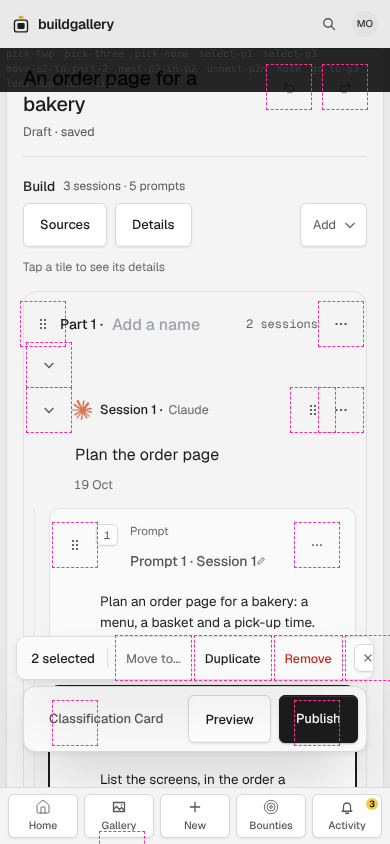
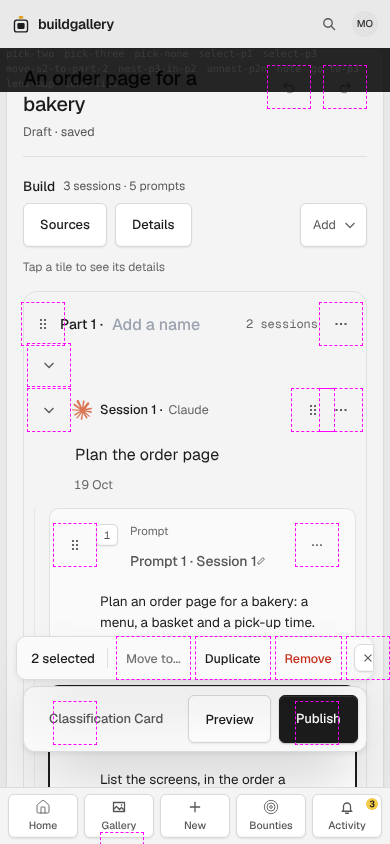
CA-26 P6: screens and checks
Claude-Session: https://claude.ai/code/session_01PDiiGmU5aszVzxvEZchmxX

diff --git a/src/pages/site/compose/buildFocus.tsx b/src/pages/site/compose/buildFocus.tsx
@@ -7,7 +7,7 @@
 import { useEffect, useRef, useState, type CSSProperties, type FocusEvent } from "react";
 
 import { HEADER_HEIGHT } from "@/components/shell/chromeSize";
-import { ROVING_ITEM, itemKey, itemsOf, shown } from "@/lib/focus/buildItems";
+import { ROVING_ITEM, itemAt, itemKey, itemsOf, shown } from "@/lib/focus/buildItems";
 import { ring } from "@/lib/theme/controls";
 import { t } from "@/lib/theme/tokens";
 import { text } from "./refinedStyles";
@@ -38,6 +38,7 @@ export function useRovingList(rootRef: { current: HTMLElement | null }, onSelect
   const last = useRef<{ key: string; index: number } | null>(null);
   const select = useRef(onSelect);
   select.current = onSelect;
+  const lastEl = useRef<HTMLElement | null>(null);
   const bound = useRef<HTMLElement | null>(null);
   const cleanup = useRef<(() => void) | null>(null);
 
@@ -49,6 +50,12 @@ export function useRovingList(rootRef: { current: HTMLElement | null }, onSelect
     if (!root) return;
 
     const apply = () => {
+      // The item that had focus was taken out of the page (Delete, a removal in a menu): focus goes to the item now in its place.
+      if (lastEl.current && !lastEl.current.isConnected && (!document.activeElement || document.activeElement === document.body)) {
+        const stand = itemAt(last.current);
+        lastEl.current = null;
+        stand?.focus();
+      }
       const items = itemsOf(root);
       const at = last.current ? items.findIndex((item) => itemKey(item) === last.current?.key) : -1;
       const current = items[at >= 0 ? at : Math.min(last.current?.index ?? 0, Math.max(items.length - 1, 0))];
@@ -67,6 +74,7 @@ export function useRovingList(rootRef: { current: HTMLElement | null }, onSelect
       if (!item) return;
       const items = itemsOf(root);
       last.current = { key: itemKey(item), index: Math.max(items.indexOf(item), 0) };
+      lastEl.current = item;
       apply();
       item.scrollIntoView?.({ block: "nearest" });
     };
@@ -96,6 +104,8 @@ export function useRovingList(rootRef: { current: HTMLElement | null }, onSelect
           first.focus();
         } else return;
         event.preventDefault();
+        // Not the item's own (a menu button opens on ArrowDown) and not the page's (the shortcuts move the selection by it).
+        event.stopPropagation();
         return;
       }
       if (takesKeys(target) || (event.key !== "ArrowRight" && event.key !== "ArrowLeft")) return;

diff --git a/src/lib/build/__snapshots__/one-prompt.list.html b/src/lib/build/__snapshots__/one-prompt.list.html
@@ -12,7 +12,7 @@
 <span data-testid="prompt-place" style="flex-shrink:0;white-space:nowrap">Prompt 1</span>
 </span>
 </h3>
-<button type="button" aria-label="Rename prompt 1" style="width:20px;height:20px;padding:0;flex-shrink:0;box-sizing:border-box;background:transparent;border:1px solid transparent;border-radius:6px;color:var(--label);display:inline-flex;align-items:center;justify-content:center;cursor:pointer">
+<button type="button" aria-label="Rename prompt 1" data-hit="" style="width:20px;height:20px;padding:0;flex-shrink:0;box-sizing:border-box;background:transparent;border:1px solid transparent;border-radius:6px;color:var(--label);display:inline-flex;align-items:center;justify-content:center;cursor:pointer">
 <svg width="12" height="12" viewBox="0 0 16 16" fill="none" stroke="currentColor" stroke-width="1.3" stroke-linecap="square" aria-hidden="true">
 <path d="M10.5 3.5l2 2L6 12H4v-2z">
 </path>
@@ -20,7 +20,7 @@
 </button>
 </div>
 </div>
-<button type="button" aria-label="Prompt 1 options" id="radix-(id)" aria-haspopup="menu" aria-expanded="false" data-state="closed" style="box-sizing:border-box;flex-shrink:0;width:26px;height:26px;padding:0;border-radius:6px;display:inline-flex;align-items:center;justify-content:center;cursor:pointer;background:transparent;border:1px solid transparent;color:var(--label)">
+<button type="button" aria-label="Prompt 1 options" data-hit="" id="radix-(id)" aria-haspopup="menu" aria-expanded="false" data-state="closed" style="box-sizing:border-box;flex-shrink:0;width:26px;height:26px;padding:0;border-radius:6px;display:inline-flex;align-items:center;justify-content:center;cursor:pointer;background:transparent;border:1px solid transparent;color:var(--label)">
 <svg width="14" height="14" viewBox="0 0 16 16" fill="none" stroke="currentColor" stroke-width="2" stroke-linecap="square" aria-hidden="true">
 <path d="M3.5 8h.01M8 8h.01M12.5 8h.01">
 </path>

diff --git a/src/pages/site/compose/ca26.p1.test.tsx b/src/pages/site/compose/ca26.p1.test.tsx
@@ -1,6 +1,6 @@
 // CA-26 P1: the skip link, the tab order, and the build list as one Tab stop.
 
-import { act, cleanup, fireEvent, render, screen } from "@testing-library/react";
+import { act, cleanup, fireEvent, render, screen, waitFor } from "@testing-library/react";
 import { MemoryRouter } from "react-router-dom";
 import { afterEach, beforeEach, describe, expect, it, vi } from "vitest";
 
@@ -89,6 +89,24 @@ describe("the build list is one Tab stop", () => {
     mountList({ parts: partsOf() });
     act(() => items()[2].focus());
     expect(scroll).toHaveBeenCalled();
+  });
+});
+
+describe("focus that is lost", () => {
+  it("an item taken out of the page while it had focus hands focus to the item now in its place", async () => {
+    mountList({ parts: partsOf() });
+    const all = items();
+    const gone = all[2];
+    act(() => gone.focus());
+    gone.remove();
+    await waitFor(() => expect(document.activeElement).toBe(items()[2]));
+    expect(document.activeElement).not.toBe(document.body);
+  });
+
+  it("the add rows are items of the list: one Tab stop in all", () => {
+    mountList({ parts: partsOf() });
+    expect(document.querySelectorAll('[data-testid="build-list"] [data-testid="add-part-row"], [data-testid="build-list"] [data-testid="add-session-row"]').length).toBeGreaterThanOrEqual(0);
+    expect(stops()).toHaveLength(1);
   });
 });
 

diff --git a/src/lib/focus/buildItems.ts b/src/lib/focus/buildItems.ts
@@ -4,7 +4,7 @@
 // another once the list redraws, and where focus lands when the element that had it is gone.
 
 /** Everything in the build list that holds a place in the arrow order. */
-export const ROVING_ITEM = '[data-testid="step-card"], [data-testid="sent-with-tile"], [data-testid="result-card"], [data-testid="session-head"], [data-testid="workstream-head"]';
+export const ROVING_ITEM = '[data-testid="step-card"], [data-testid="sent-with-tile"], [data-testid="result-card"], [data-testid="session-head"], [data-testid="workstream-head"], [data-testid="add-to-session"], [data-testid="add-part-row"], [data-testid="add-session-row"]';
 
 /** An item's name that survives a redraw: its node, its session, or its part. */
 export const itemKey = (item: HTMLElement): string => {
@@ -13,6 +13,9 @@ export const itemKey = (item: HTMLElement): string => {
   const session = item.closest<HTMLElement>("[data-session-key]")?.dataset.sessionKey;
   if (item.dataset.testid === "session-head" && session) return `s:${session}`;
   if (item.dataset.workstreamKey) return `w:${item.dataset.workstreamKey}`;
+  // An add row: named by the row and by the session or part it stands in.
+  const scope = item.closest<HTMLElement>("[data-session-key]")?.dataset.sessionKey ?? "";
+  if (item.dataset.testid?.startsWith("add-")) return `a:${item.dataset.testid}:${scope}`;
   return "";
 };
 

diff --git a/e2e/audit/support/harness.ts b/e2e/audit/support/harness.ts
@@ -837,12 +837,16 @@ export const ROUTES: AuditRoute[] = [
       await page.waitForTimeout(700);
     };
     return [
-      { id: `ca22-list-${room}`, path: sandbox("ca22", "&bar=hide&history=1&select=c22-p2") },
+      { id: `ca22-list-${room}`, path: sandbox("ca22", "&bar=0&history=1&select=c22-p2") },
       {
         id: `ca22-selection-${room}`,
         path: sandbox("ca22", "&bar=hide&history=1"),
         after: async (page: Page) => {
-          await page.evaluate(() => (document.querySelector('[data-testid="act-pick-two"]') as HTMLElement).click());
+          // The dev page's own bar of buttons presses the pick, then comes off the page: it is not the page.
+          await page.evaluate(() => {
+            (document.querySelector('[data-testid="act-pick-two"]') as HTMLElement).click();
+            document.querySelector('[data-testid="motion-bar"]')?.remove();
+          });
           await page.waitForTimeout(700);
         },
       },

diff --git a/src/pages/site/compose/removePieces.tsx b/src/pages/site/compose/removePieces.tsx
@@ -32,6 +32,7 @@ import { MenuContent } from "./ComposeMenu";
 import { GROUP_TITLE, IconSquare, LABEL, RecipeButton, footerStyle, frameStyle } from "./modalRecipes";
 import { DANGER, ELLIPSIS, GAP, PAD, words } from "./referencePieces";
 import { menuItem, menuSurface } from "./refinedStyles";
+import { focusBuild } from "./buildFocus";
 
 /* ── P1: the reason a greyed item gives ── */
 
@@ -329,7 +330,11 @@ export function SelectionBar({ leaving = false, phone, count, moveTo, holds, onM
         {SELECTION_COPY.remove}
       </BarButton>
       <span style={{ flexGrow: 1, minWidth: 4 }} />
-      <IconSquare glyph="x" label={SELECTION_COPY.clear} phone={false} onClick={onClear} />
+      <IconSquare glyph="x" label={SELECTION_COPY.clear} phone={false} onClick={() => {
+        onClear();
+        // The bar falls away with this button on it: focus goes to the build's current item.
+        focusBuild();
+      }} />
     </div>
   );
 }

diff --git a/e2e/audit/contrast-sweep.spec.ts b/e2e/audit/contrast-sweep.spec.ts
@@ -73,7 +73,8 @@ test("BG-P30 — every rendered pair on fifteen routes, in both rooms", async ({
   const accepted: string[] = [];
   const coverage: Array<{ route: string; theme: string; pairs: number; nodes: number }> = [];
 
-  for (const route of ROUTES) {
+  // `SWEEP_ONLY=ca` runs the routes whose id starts with it (a quick look at a few screens); unset, every route.
+  for (const route of ROUTES.filter((each) => !process.env.SWEEP_ONLY || each.id.startsWith(process.env.SWEEP_ONLY))) {
     for (const theme of THEMES) {
       const context = await browser.newContext({ viewport: { width: 1440, height: 900 } });
       const page = await context.newPage();

diff --git a/src/lib/theme/lookRules.test.ts b/src/lib/theme/lookRules.test.ts
@@ -709,6 +709,8 @@ export const CA03_FILES: readonly string[] = [
   "src/pages/site/compose/ca23.p3.test.tsx",
   "src/pages/site/compose/saveWindows.tsx",
   // CA-26 P5
+  "e2e/audit/composer-ca26-shots.spec.ts",
+  "src/pages/site/compose/removePieces.tsx",
   "e2e/audit/composer-ca26-touch.spec.ts",
   "e2e/audit/support/harness.ts",
   "src/pages/dev/KitPages.tsx",

diff --git a/design/audits/composer/ca-26/audit.md b/design/audits/composer/ca-26/audit.md
@@ -42,8 +42,8 @@ real composer needs a signed-in session; its parts are the same components, and 
 
 | | Before | After |
 |---|---|---|
-| Tab stops on the page | 95 | 43 |
-| of them in the Build column | 58 | 6 (the list, Add, and the controls that are not items) |
+| Tab stops on the page | 95 | 42 |
+| of them in the Build column | 58 | 5 (the list, Add, the dev page's own `+ Add Tile` buttons, and the Add a prompt box) |
 | first stop | Skip to content | Skip to build |
 | order | header, Sources, Build, Details | header, Sources, post, Build, Details |
 
@@ -86,3 +86,23 @@ duplicated what the announcer now says, and is removed; the others describe stat
 axe-core 4.10.2 (a copy on the side; the repository does not depend on it), the build page, Dusk and Noon, 1440 and 390: **0
 violations before, 0 after** (45 rules passed). It found, once, a real one along the way: the skip link's target did not exist
 (`skip-link`, `region`), fixed by giving the Build panel the id the link points at.
+
+## 5. Contrast
+
+`npm run audit:contrast`, extended with the composer screens of CA-19 to CA-25 and their windows (the List with a tile selected,
+the selection bar, the saving, offline and two-tab states and their windows, empty and failed, the Publish checklist and Confirm,
+and six tile windows), Dusk and Noon: 32 new routes, 64 page visits. The 24 routes that were there give the same failures as at
+`d291360` (62 before, 60 after; nothing new). On the new routes there are three distinct findings, none from CA-26:
+
+| Finding | Where | Reading |
+|---|---|---|
+| ring and ground read as the same colour (1:1) on a focused search field and on the code well | every route, at `d291360` too | the probe's reading of the ring; the ring on screen is `--focus-ring` (see the shots) |
+| Noon: `--hairline` border-top of the Segmented control, 1.41:1 against a floor of 3 | Add Agent window (CA-03 P2's control) | a token choice for the control; not changed here, it would move the window at rest. Asked in the report |
+
+Small text on the new routes: no failure at 4.5.
+
+## 6. After
+
+Hit areas (`composer-ca26-touch`): the grip, the ⋯ buttons, the fold arrows, Undo, Redo, the selection bar's buttons and the window
+close buttons are 44 by 44 or more on a phone and on a 1024 tablet (coarse pointer, wider than the phone chrome), Dusk and Noon.
+At rest (`composer-ca26-shots`): 8 of 8 shots byte for byte the shots from `d291360`. axe: 0 left.
